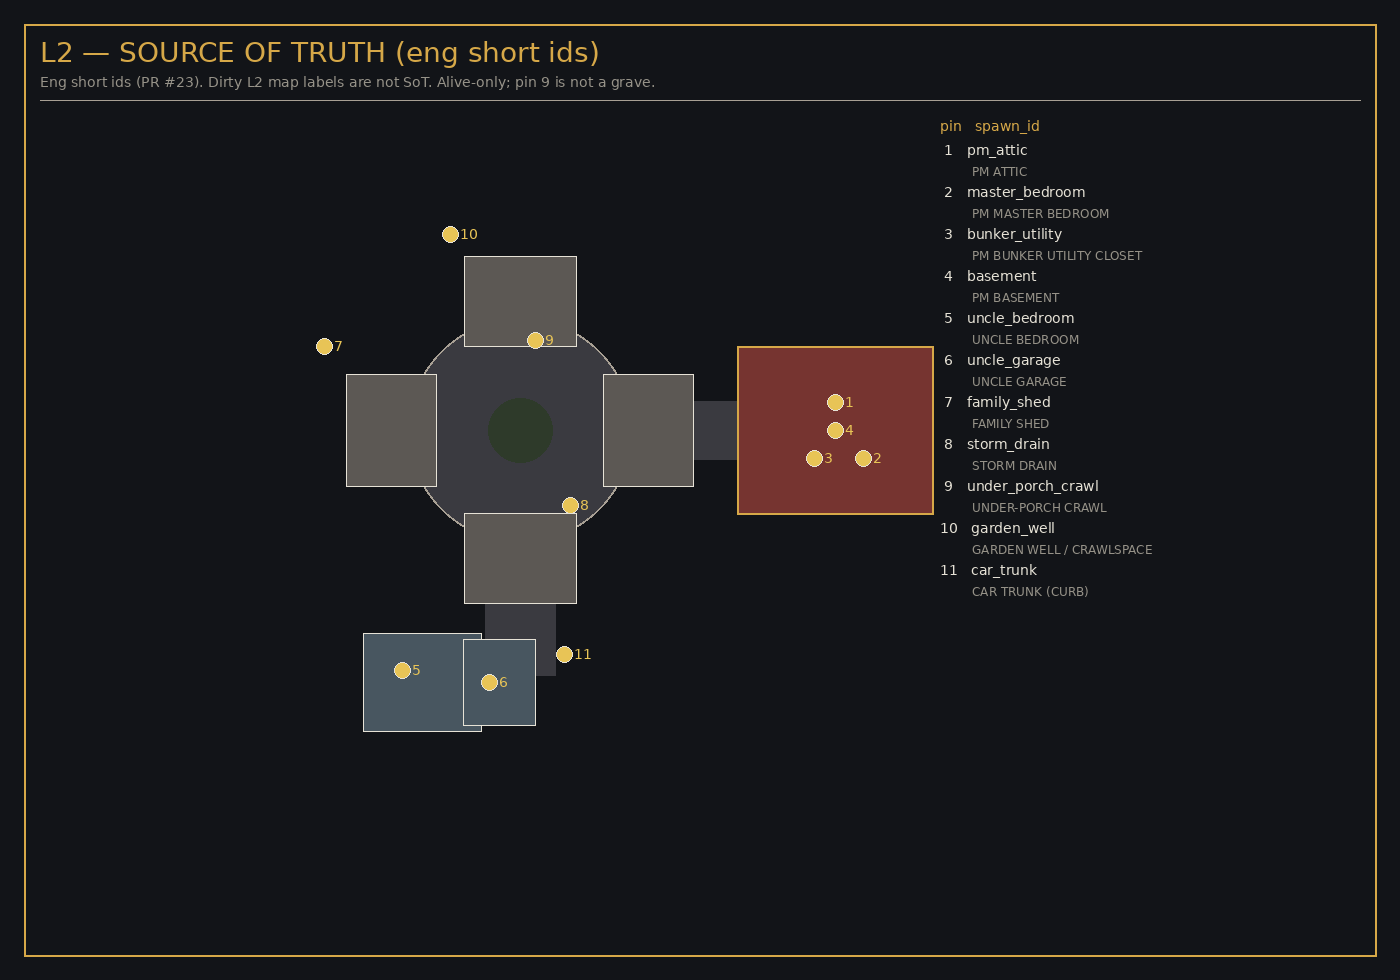
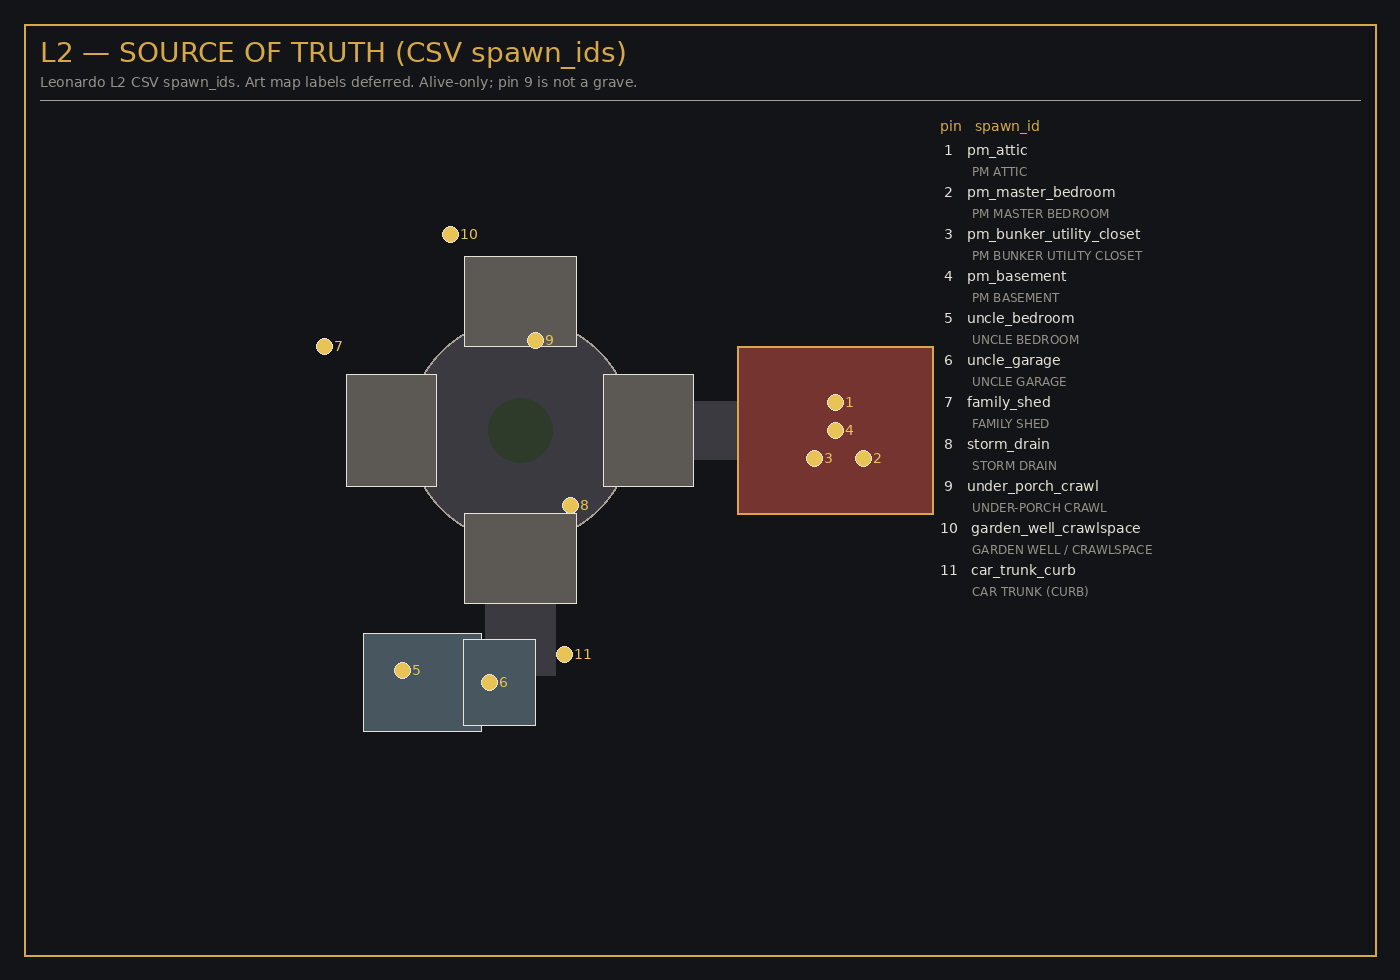
Lock L2 spawn_ids to Leonardo CSV SoT
Use the confirmed long-form ids in ChildSpawnRNG and world markers.
CSV/MD in docs/blueprints/v0.5 are verbatim. L1/L3/L4 footprints stay.

diff --git a/docs/blueprints/v0.5/L2_child_rng_spawns.md b/docs/blueprints/v0.5/L2_child_rng_spawns.md
@@ -1,23 +1,23 @@
-# L2 Child RNG Spawns — Leonardo SoT (eng short ids)
+# L2 Child RNG Spawns — Leonardo SoT
 
-Pin source of truth for Neighborhood Layout v0.5. **Use these `spawn_id` values exactly.** They match PR #23 / `ChildSpawnRNG.SPAWN_IDS`.
+Pin source of truth for Neighborhood Layout v0.5. **Use these `spawn_id` values exactly.** They match `ChildSpawnRNG.SPAWN_IDS` and `docs/blueprints/v0.5/L2_child_rng_spawns.csv`.
 
-Do **not** rename to long-form ids (`pm_master_bedroom`, `pm_bunker_utility_closet`, `garden_well_crawlspace`, `car_trunk_curb`). Dirty L2 map callouts (e.g. YUJA BASEMENT, under-porch on the wrong pin) are not source of truth.
+Art map labels are deferred. Dirty L2 map callouts (e.g. YUJA BASEMENT, under-porch on the wrong pin) are not source of truth.
 
 All 11 pins are **alive-only**. Pin 9 is an under-porch crawl / dirt hide — no grave wording.
 
 | pin | spawn_id | callout | location_notes |
 | --- | --- | --- | --- |
 | 1 | `pm_attic` | PM ATTIC | Inside PM mansion attic |
-| 2 | `master_bedroom` | PM MASTER BEDROOM | Inside PM mansion master bedroom |
-| 3 | `bunker_utility` | PM BUNKER UTILITY CLOSET | Inside PM bunker utility closet |
-| 4 | `basement` | PM BASEMENT | Inside PM basement |
+| 2 | `pm_master_bedroom` | PM MASTER BEDROOM | Inside PM mansion master bedroom |
+| 3 | `pm_bunker_utility_closet` | PM BUNKER UTILITY CLOSET | Inside PM bunker utility closet |
+| 4 | `pm_basement` | PM BASEMENT | Inside PM basement |
 | 5 | `uncle_bedroom` | UNCLE BEDROOM | Inside uncle house bedroom |
 | 6 | `uncle_garage` | UNCLE GARAGE | Uncle garage structure |
 | 7 | `family_shed` | FAMILY SHED | Shed by family houses |
 | 8 | `storm_drain` | STORM DRAIN | Street storm drain |
 | 9 | `under_porch_crawl` | UNDER-PORCH CRAWL / DIRT HIDE | Under porch crawl / dirt hide — NO grave wording |
-| 10 | `garden_well` | GARDEN WELL / CRAWLSPACE | Garden well or crawlspace |
-| 11 | `car_trunk` | CAR TRUNK (CURB) | Parked car trunk at curb |
+| 10 | `garden_well_crawlspace` | GARDEN WELL / CRAWLSPACE | Garden well or crawlspace |
+| 11 | `car_trunk_curb` | CAR TRUNK (CURB) | Parked car trunk at curb |
 
 Host RNG picks **one** pin per match. Place markers on the matching L1 / L4 rooms, not on mislabeled L2 art numbers.

diff --git a/README.md b/README.md
@@ -232,21 +232,21 @@ pointing at what's missing.
 
 ## Horror child spawn points (11, alive-only)
 
-Host RNG picks **one** per match (`ChildSpawnRNG`). Teams map to **families** A–D (cul-de-sac bedroom spawns). All pins are living hides — no grave sites. IDs are Leonardo L2 SoT **eng short names** (PR #23). Dirty L2 map callouts are not source of truth.
+Host RNG picks **one** per match (`ChildSpawnRNG`). Teams map to **families** A–D (cul-de-sac bedroom spawns). All pins are living hides — no grave sites. IDs match Leonardo L2 CSV SoT. Art map labels are deferred.
 
 | # | `spawn_id` | Callout | Location |
 | --- | --- | --- | --- |
 | 1 | `pm_attic` | PM ATTIC | PM mansion attic |
-| 2 | `master_bedroom` | PM MASTER BEDROOM | PM mansion master bedroom |
-| 3 | `bunker_utility` | PM BUNKER UTILITY CLOSET | PM bunker utility closet |
-| 4 | `basement` | PM BASEMENT | PM basement |
+| 2 | `pm_master_bedroom` | PM MASTER BEDROOM | PM mansion master bedroom |
+| 3 | `pm_bunker_utility_closet` | PM BUNKER UTILITY CLOSET | PM bunker utility closet |
+| 4 | `pm_basement` | PM BASEMENT | PM basement |
 | 5 | `uncle_bedroom` | UNCLE BEDROOM | Uncle house bedroom |
 | 6 | `uncle_garage` | UNCLE GARAGE | Uncle garage |
 | 7 | `family_shed` | FAMILY SHED | Shed by family houses |
 | 8 | `storm_drain` | STORM DRAIN | Street storm drain |
 | 9 | `under_porch_crawl` | UNDER-PORCH CRAWL / DIRT HIDE | House A porch crawl (no grave) |
-| 10 | `garden_well` | GARDEN WELL / CRAWLSPACE | Garden well / crawlspace |
-| 11 | `car_trunk` | CAR TRUNK (CURB) | Parked car trunk at curb |
+| 10 | `garden_well_crawlspace` | GARDEN WELL / CRAWLSPACE | Garden well / crawlspace |
+| 11 | `car_trunk_curb` | CAR TRUNK (CURB) | Parked car trunk at curb |
 
 See [`docs/blueprints/v0.5/`](docs/blueprints/v0.5/) for Leonardo v0.5 sheets.
 

diff --git a/docs/blueprints/v0.5/README.md b/docs/blueprints/v0.5/README.md
@@ -14,9 +14,9 @@ Kyle locked these sheets as the graybox production look. Eng traces in this fold
 
 Canonical pin list: [`L2_child_rng_spawns.csv`](L2_child_rng_spawns.csv) / [`L2_child_rng_spawns.md`](L2_child_rng_spawns.md).
 
-`spawn_id` values are the **eng short ids** from PR #23 (`pm_attic`, `master_bedroom`, `bunker_utility`, `basement`, …). Callouts are human labels only.
+`spawn_id` values are the Leonardo-confirmed CSV ids (`pm_attic`, `pm_master_bedroom`, `pm_bunker_utility_closet`, `pm_basement`, `garden_well_crawlspace`, `car_trunk_curb`, …). Callouts are human labels only.
 
-Earlier Leonardo L2 art had pin# / label mismatches. Those dirty numbers are not used for world markers.
+L2 art map labels are deferred. Dirty pin# / label mismatches are not used for world markers.
 
 ## Escape
 
